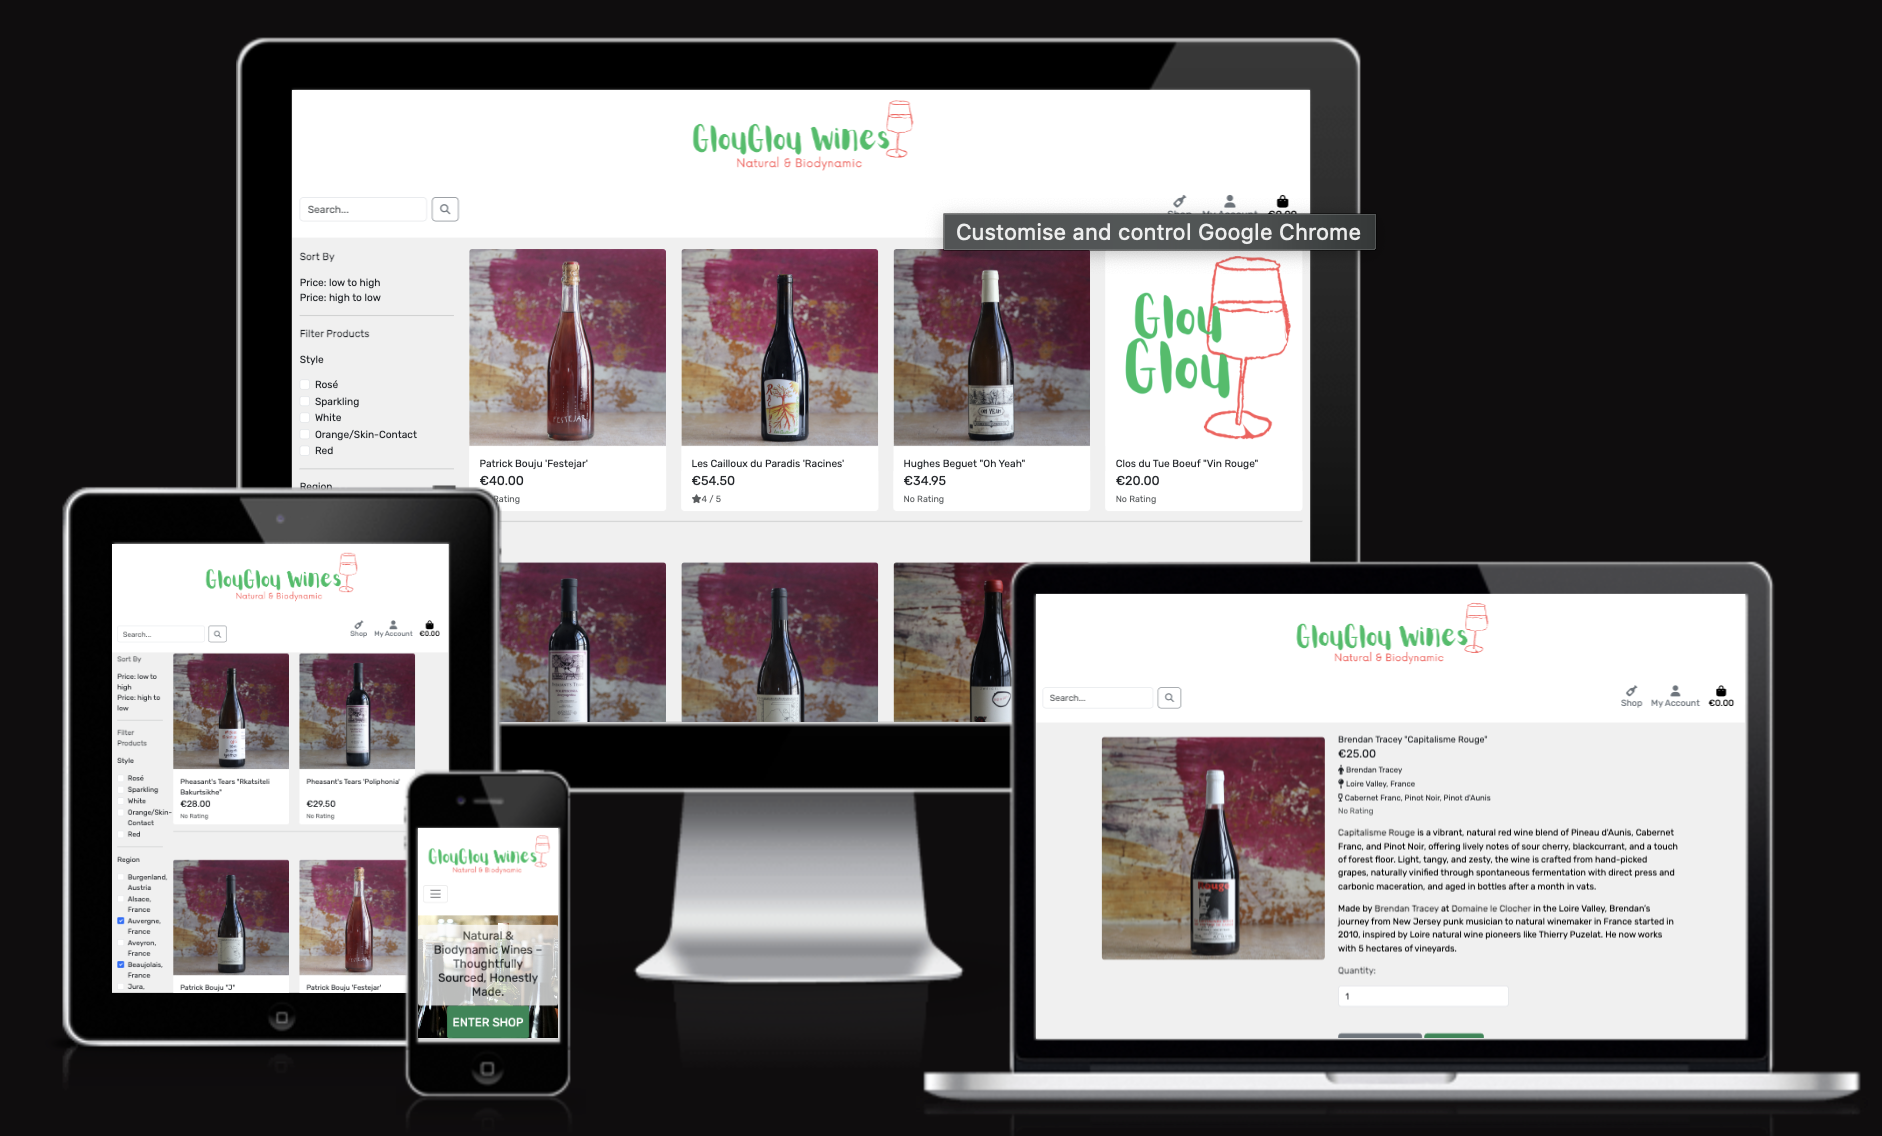
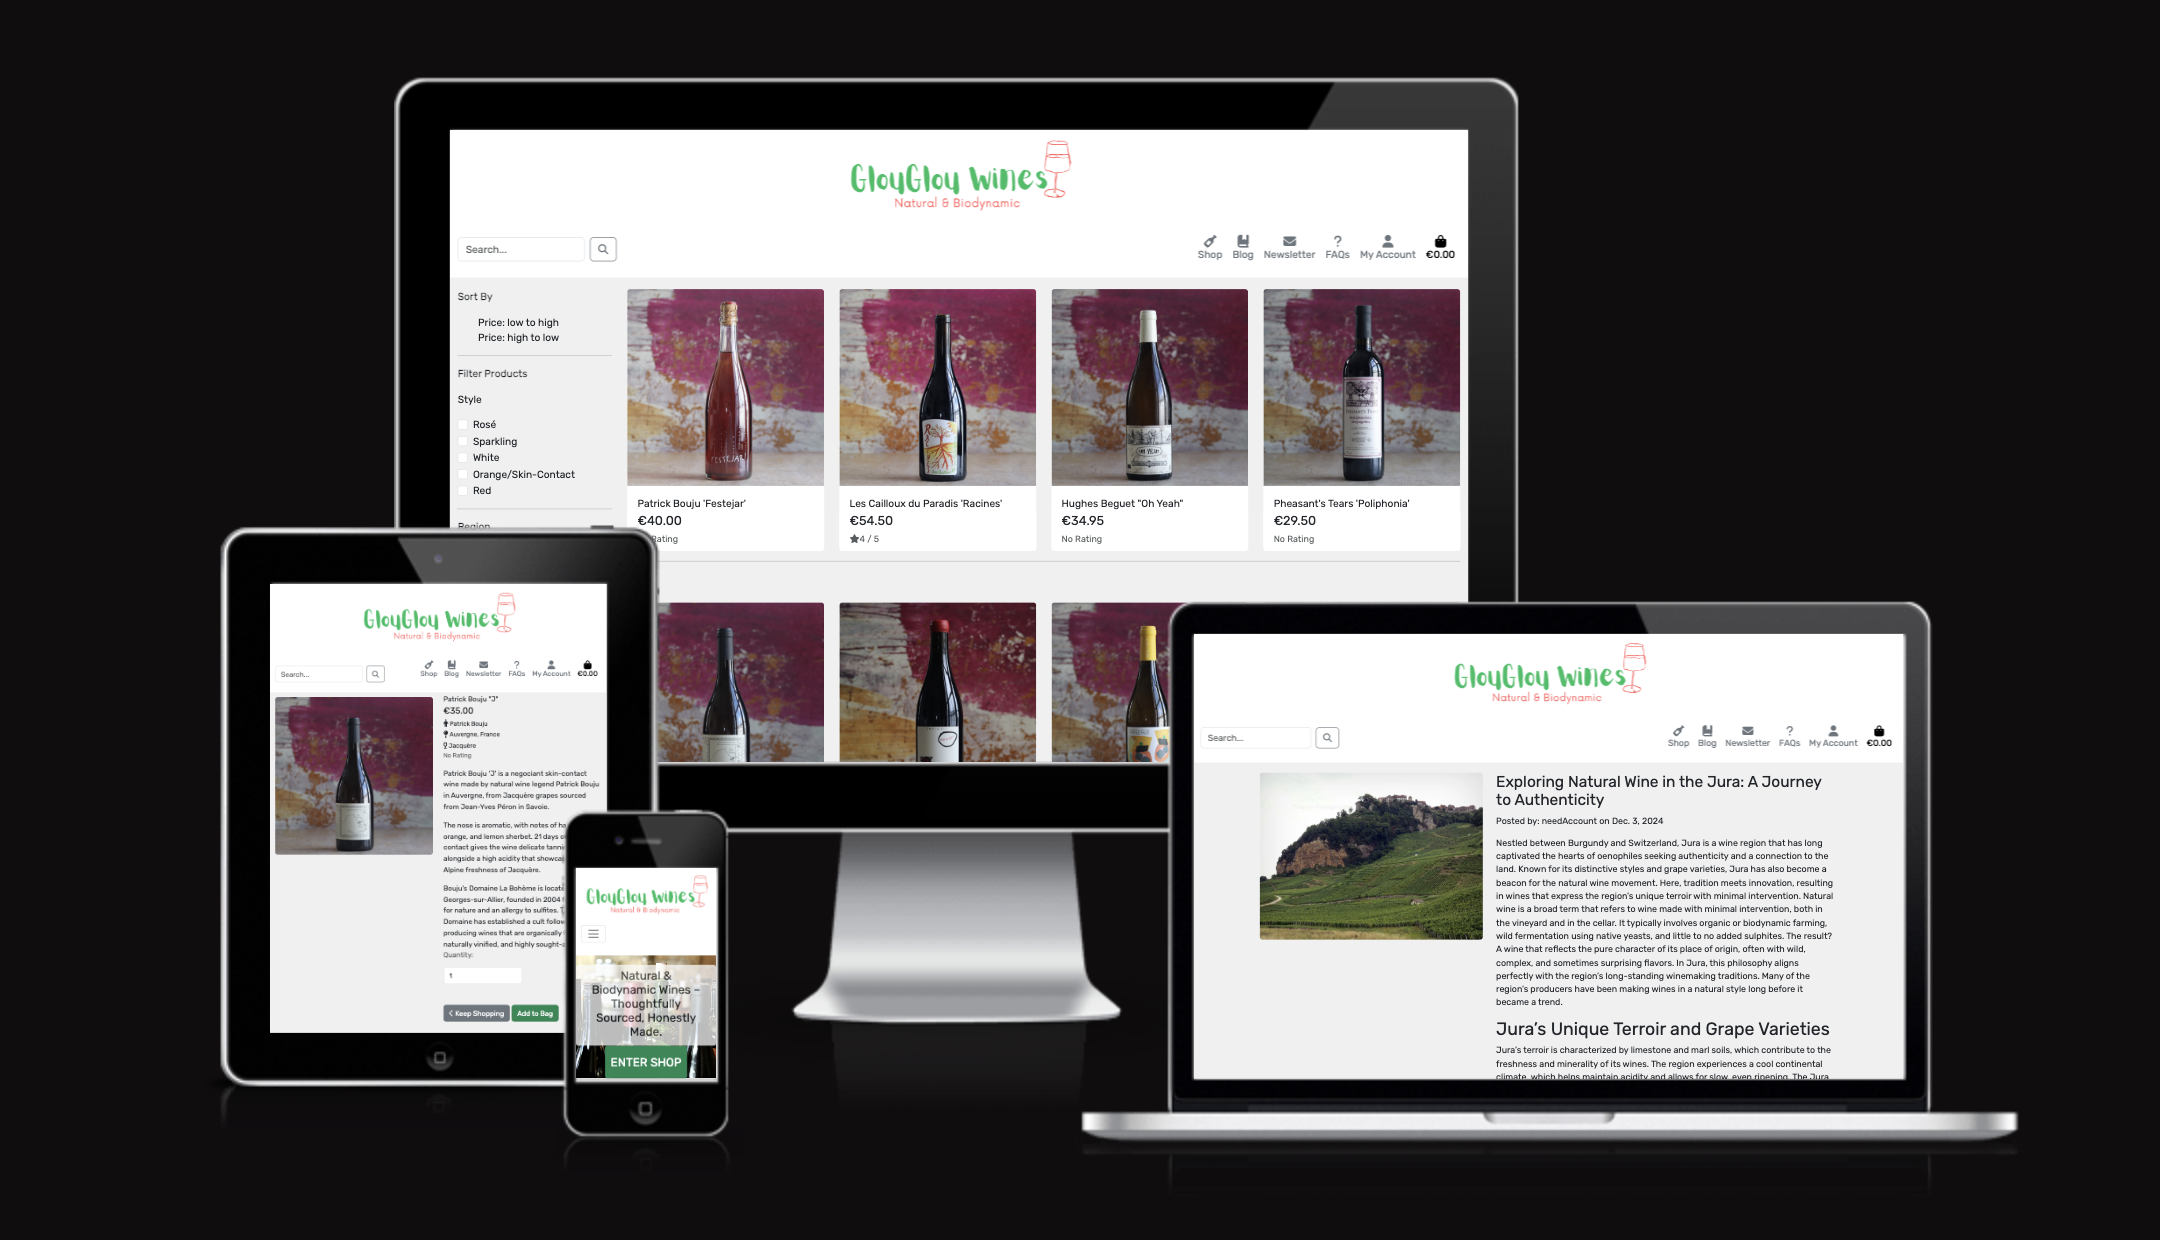
Docs: Update README

diff --git a/README.md b/README.md
@@ -164,6 +164,12 @@ Here a superuser can create new products, with Cloudinary image field submission
 
 ![Add Product Admin Screenshots](/documentation/screencaps/product-management-add_product.png)
 
+#### Blog
+
+
+
+#### FAQs
+
 <hr>
 
 <a id="wireframes"></a>
@@ -509,7 +515,11 @@ This issue was solved by assigning retrieving this object and assigning it to a 
       CRISPY_ALLOWED_TEMPLATE_PACKS = "bootstrap5"
       CRISPY_TEMPLATE_PACK = "bootstrap5"
 
-* If an admin added an item to their bag, and then deleted the product that they added to their bag, a 500 error would occur as the object no longer existed. This was addressed by getting the bag from session storage and checking if the product ID to be deleted was in the bag when the delete_product view is called. If the product is in the admin's bag and they try to delete the product, they are now redirected to their shopping bag and a modal appears advising them that the product they are trying to delete cannot be deleted until they remove the item from their bag and try again.
+* If an admin added an item to their bag and then deleted the product from the database, a 500 Internal Server Error would occur because the object no longer existed.
+
+  This issue was addressed in two ways:
+  * In the delete_product view: The session bag is checked to see if the product ID exists. If the admin attempts to delete a product that is in their bag, they are redirected to the shopping bag page. A modal informs them that they need to remove the item from their bag before deleting the product.
+  * In bag_contents() (bag/contexts.py): A try/except block handles missing products. If a product in the session bag has been deleted from the database, the product ID is removed from the session bag. The user is notified with an error message stating that the item was removed from their bag.
 
 <a id=development-and-deployment></a>
 
